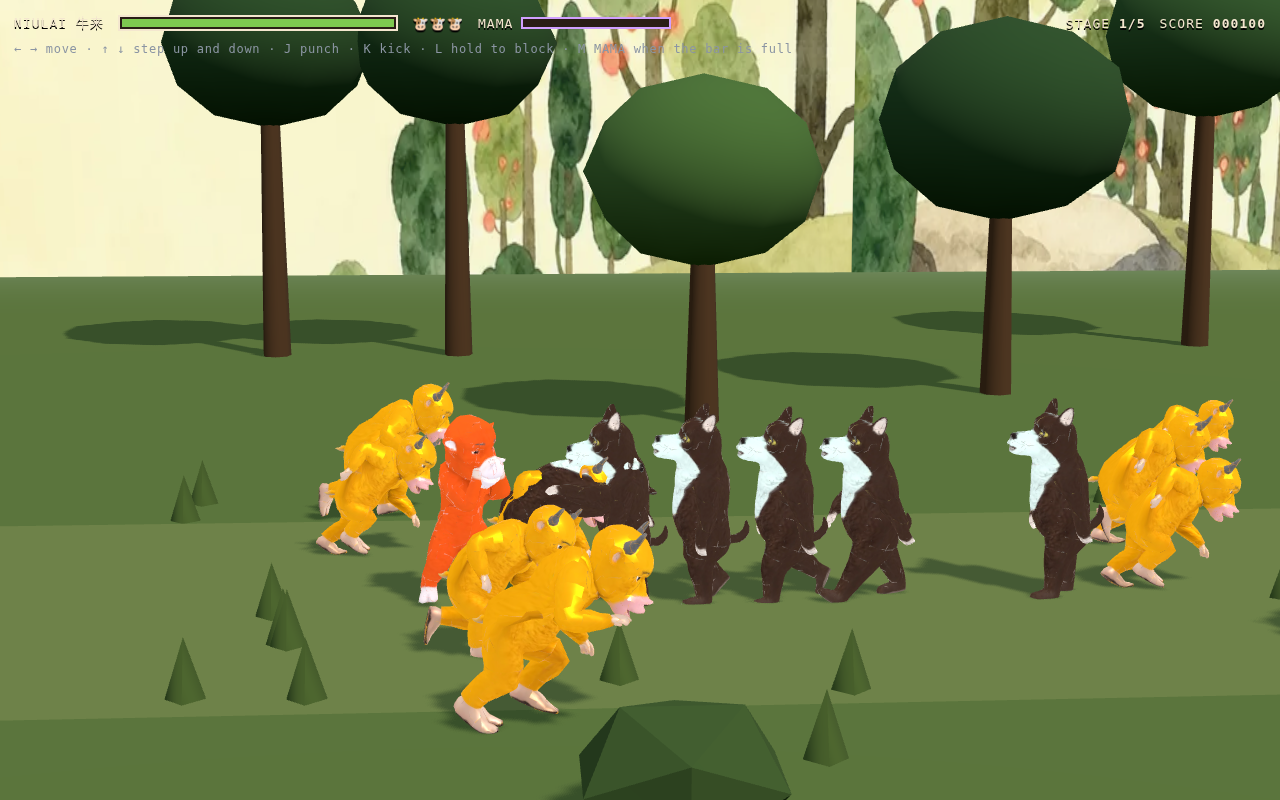
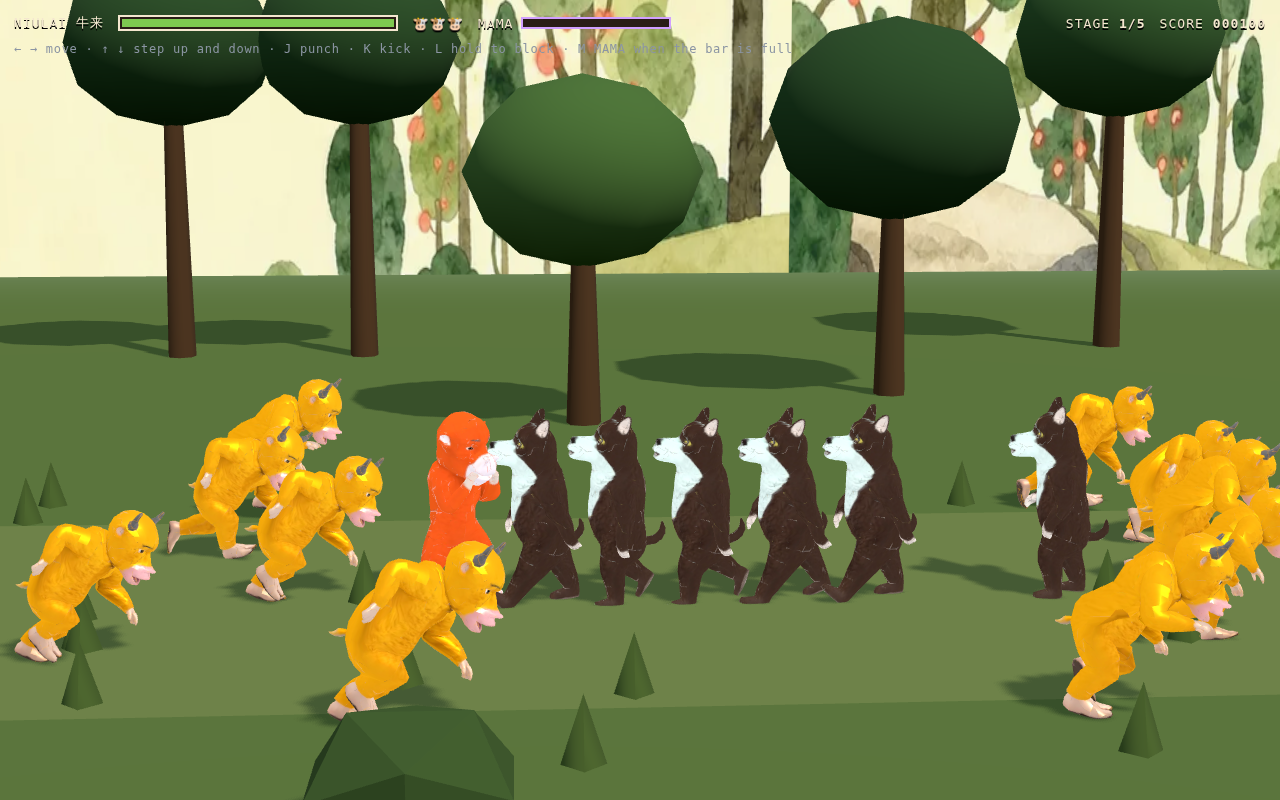
Herd speed 3.25
Between the two that were tried: 2.75 read as a crawl, 3.75 as too
quick to enjoy. Still slower than the hero walks, so the distance cap
that retires a trailing cow is still doing the work it was added for.

Claude-Session: https://claude.ai/code/session_01DQ7hxSw21dqN5ATT5EjESW

diff --git a/README.md b/README.md
@@ -61,7 +61,7 @@ once per cow that reaches it, which clears a screen of wolves outright and takes
 about half the Cart's health, since the Cart is wide enough for several lanes to
 find it at once.
 
-They cross at 2.75 units a second — slower than the hero walks, and slow enough
+They cross at 3.25 units a second — slower than the hero walks, and slow enough
 to watch, which for the one spectacle in the game is the point. Their legs
 follow: the gallop is scaled by how fast the herd is actually travelling against
 the speed the clip was authored for, so slowing it down does not turn it into
